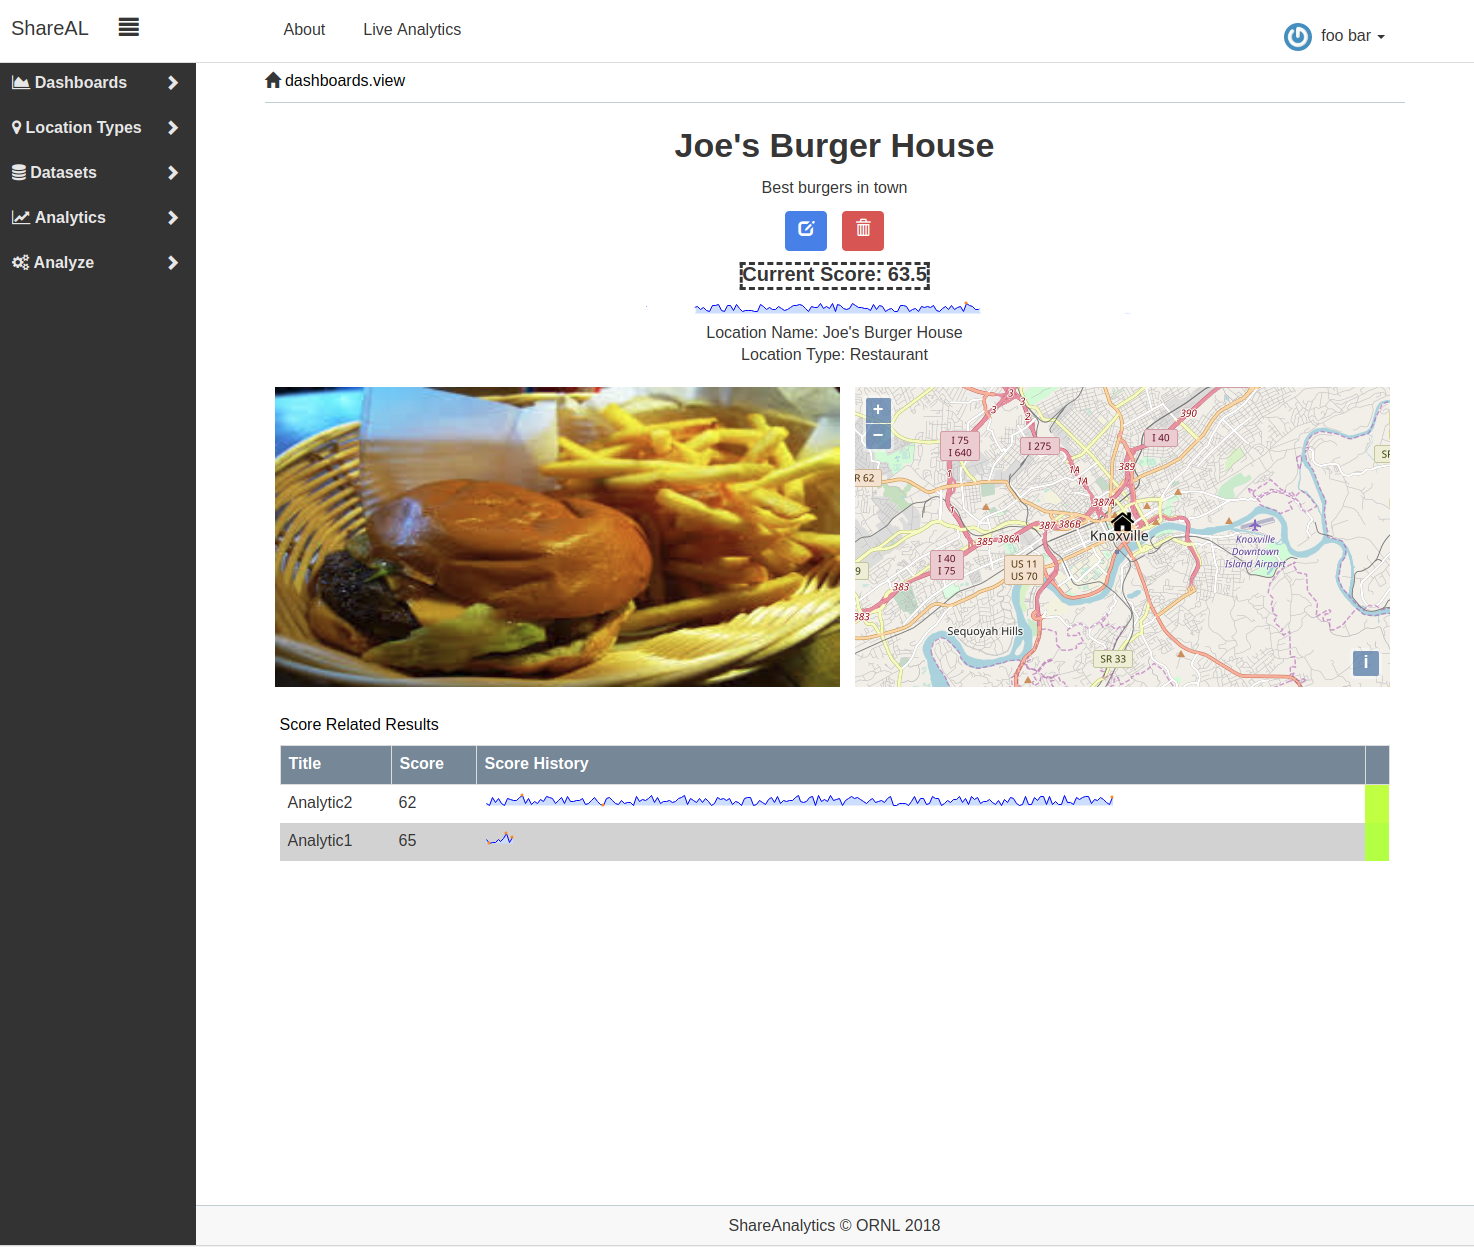
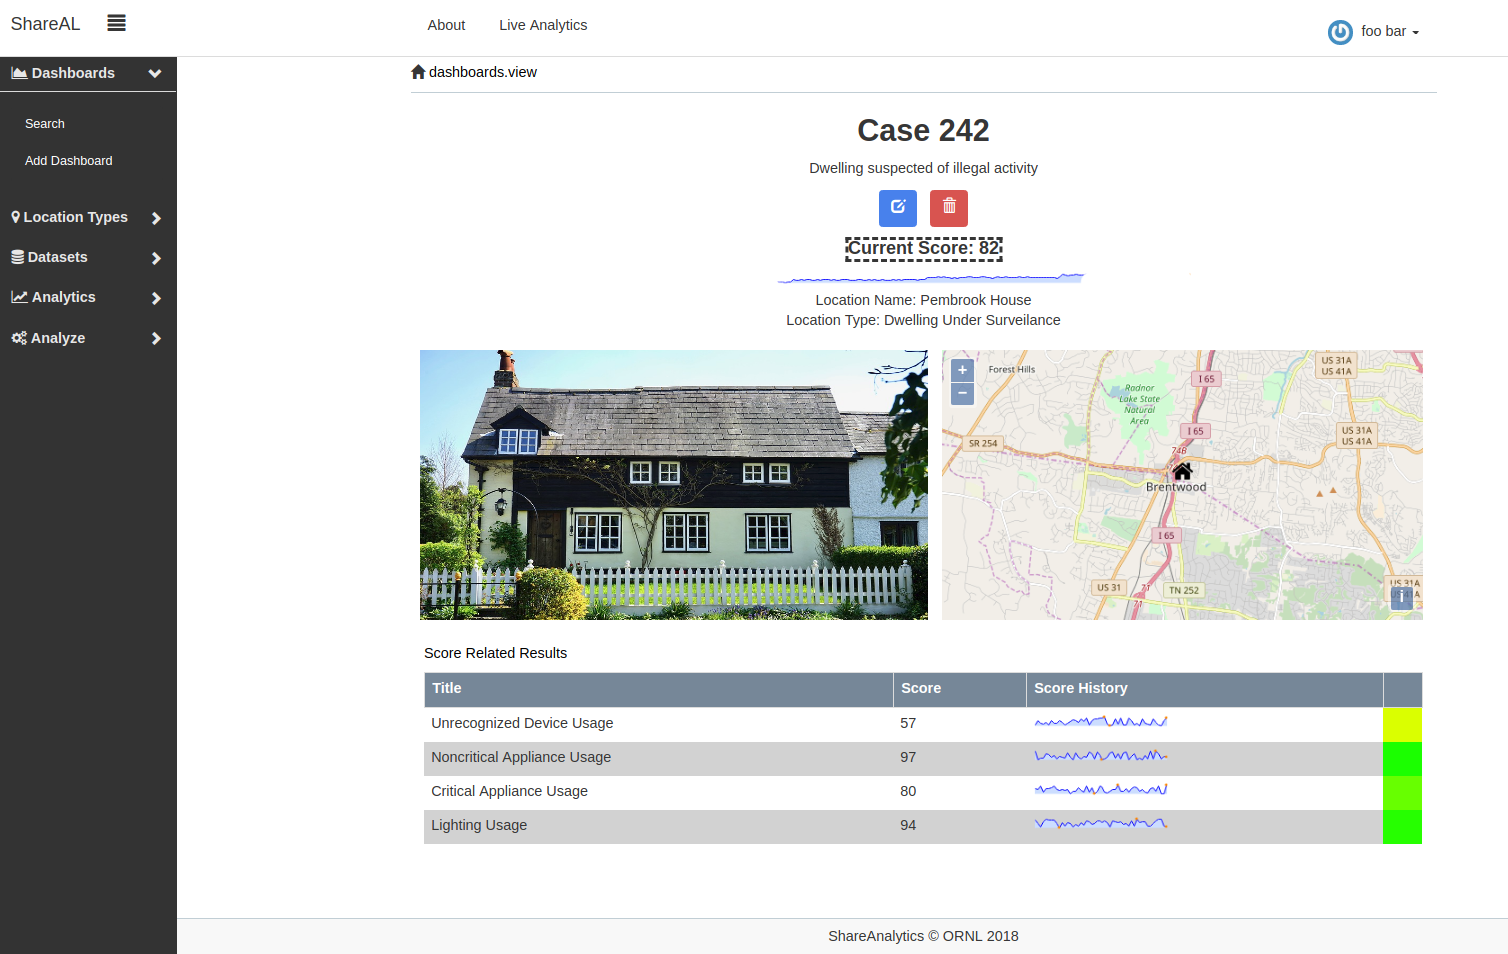
Updated webapp image and readme

diff --git a/README.md b/README.md
@@ -38,7 +38,9 @@ The figure below shows a diagram of how the various components of ShareAL are in
 
 The web application, shown below, is the main interface for ShareAL users and utilizes the MEANJS framework. In addition to normal website functionality such as user management, it gives the user access to dashboards, data sets, analytics and the ability to perform analyses on the HPC cluster. The dashboard is geared towards facility characterization and allows the user to create a metric composed of multiple analytics for a particular site to provide a cumulative score. Data sets and analytics can be shared amongst users to allow collaboration or access to the data can be restricted. Once analytics and data sets have been uploaded to the website, an analysis can then be run on the HPC cluster and the results applied to a particular dashboard's facility characterization score or viewed on the results page. 
 
-![Web Application](images/webapp.png "Web Application")
+Below is a fictitious dashboard example for a site under surveillance. It provides both the historical and current scores of each analytic that contributes to the total score as well as for the total score itself, in this case the score being related to potential illegal activity. Each of the analytics is related to energy usage of a particular category of devices and the total score is a combination of those individual metrics. 
+
+![Fictitious Dashboard Page](images/webapp.png "Fictitious Dashboard Page")
 
 #### Streaming Dashboard
 
